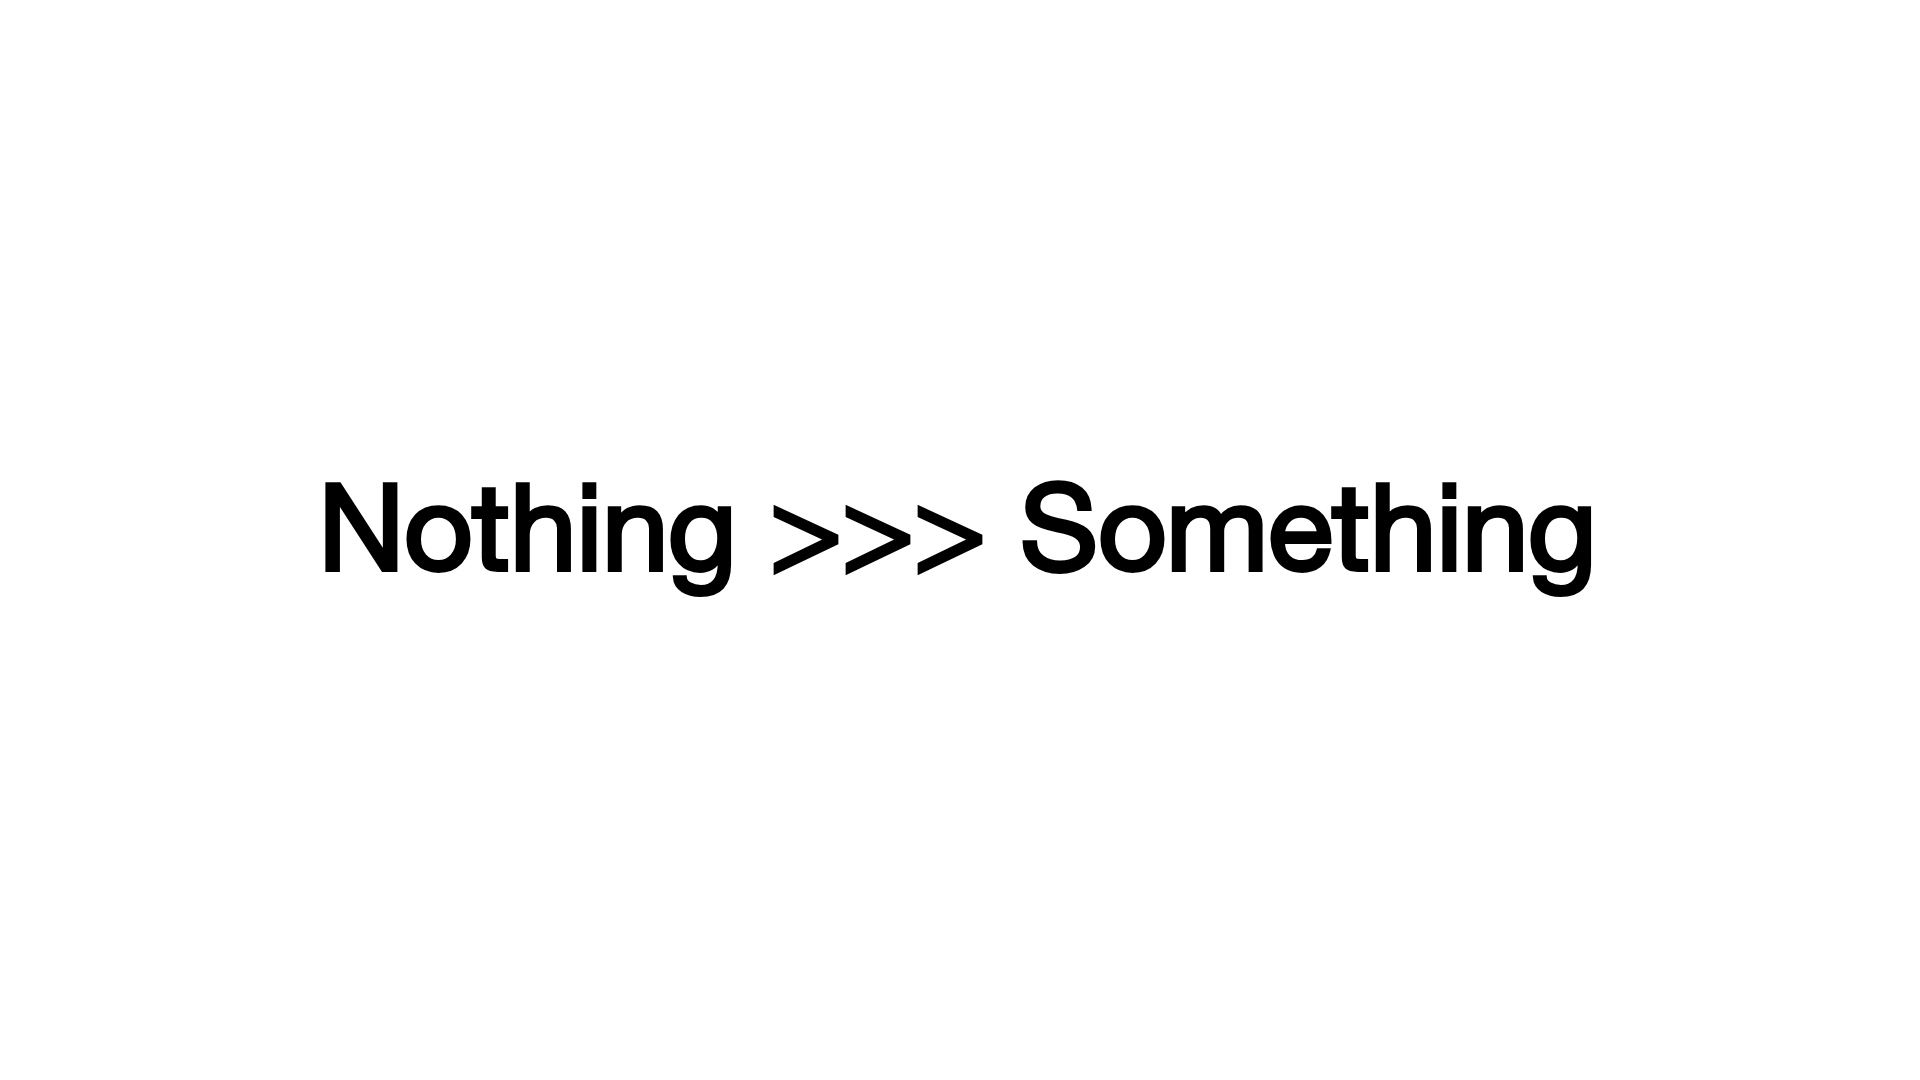
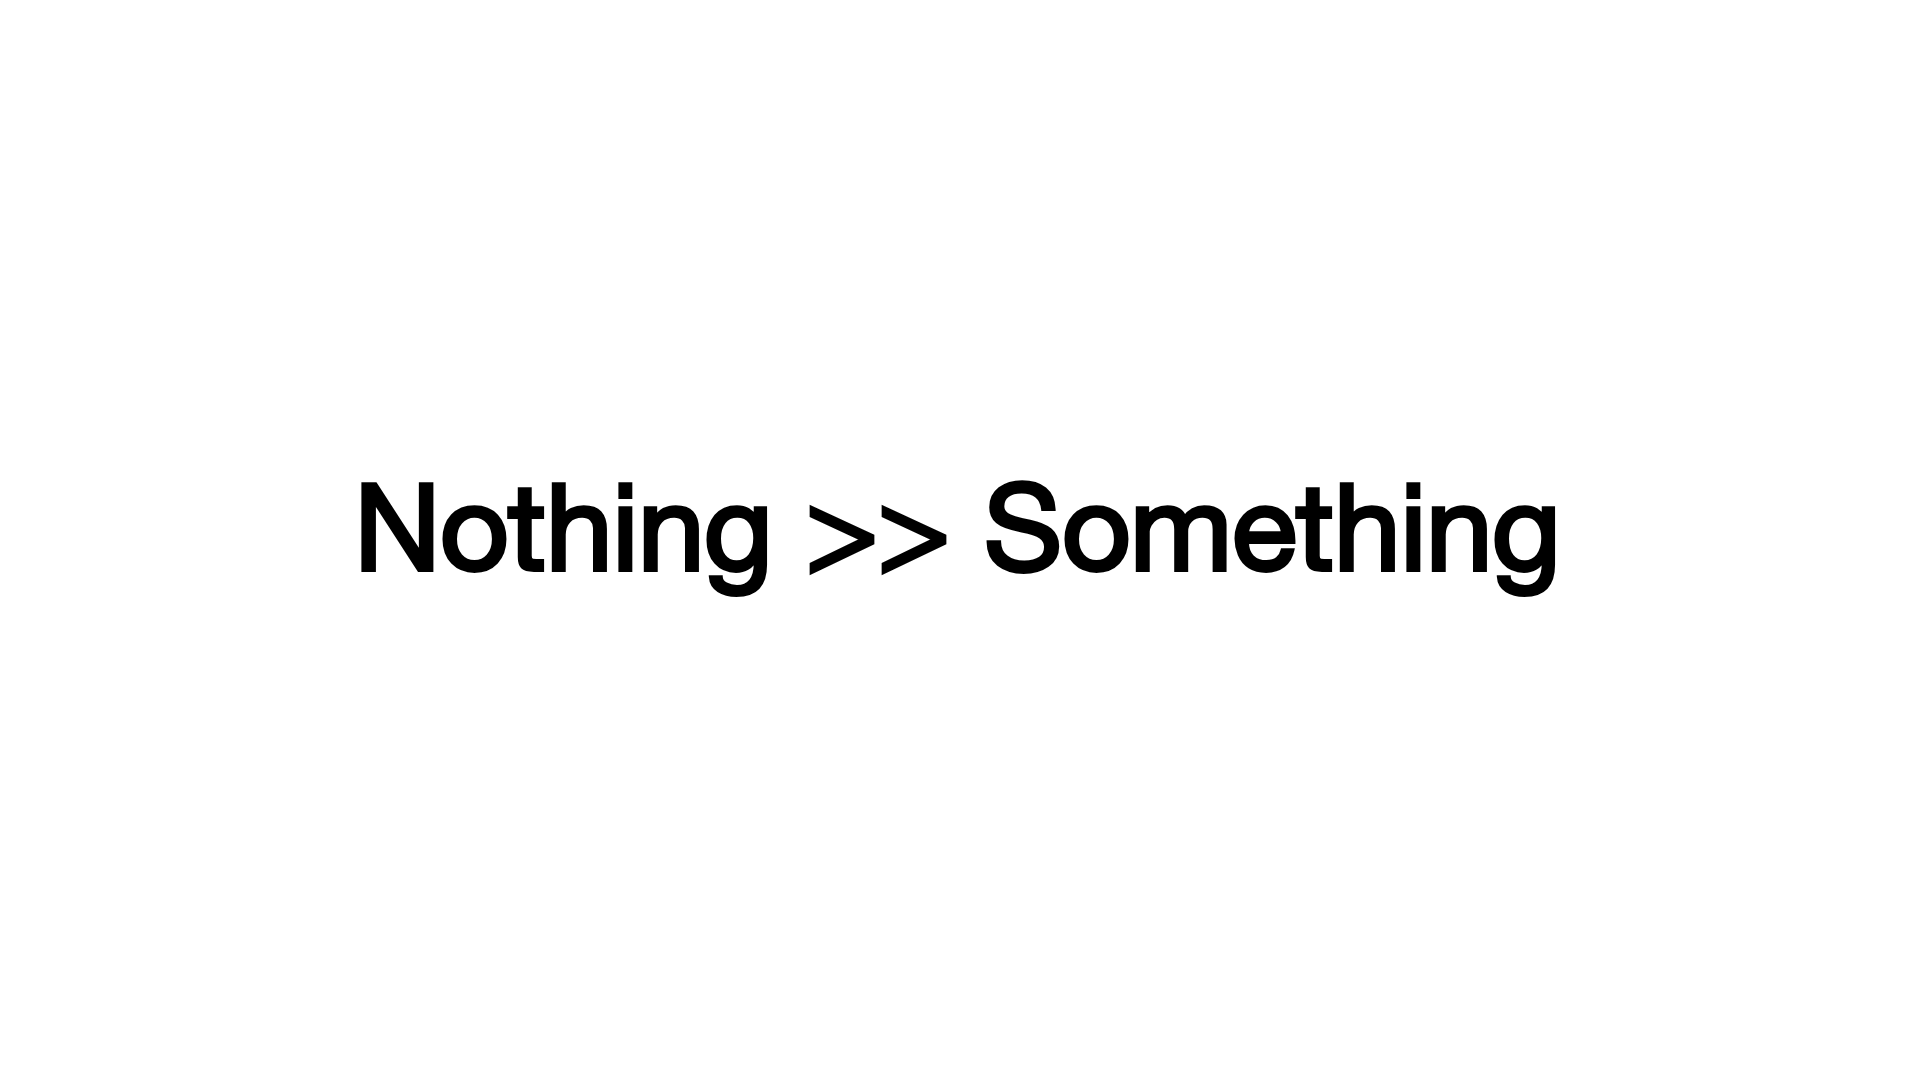
update nothing > something visual

Changed region(s): [[0.1562, 0.4278, 0.8438, 0.55]]

diff --git a/slides.md b/slides.md
@@ -1567,7 +1567,7 @@ maybe more developers doesn't address the core problem ...
 layout: statement
 ---
 
-# Nothing >>> Something
+# Nothing >> Something
 
 <!--
 Nothing, is infinitely better than something.
